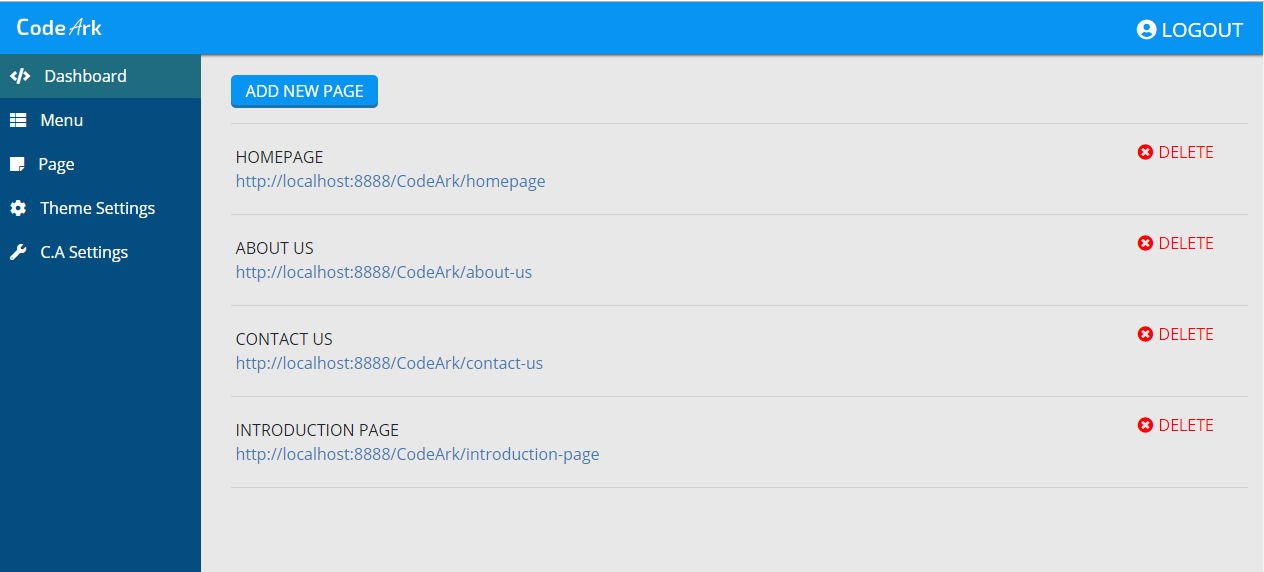
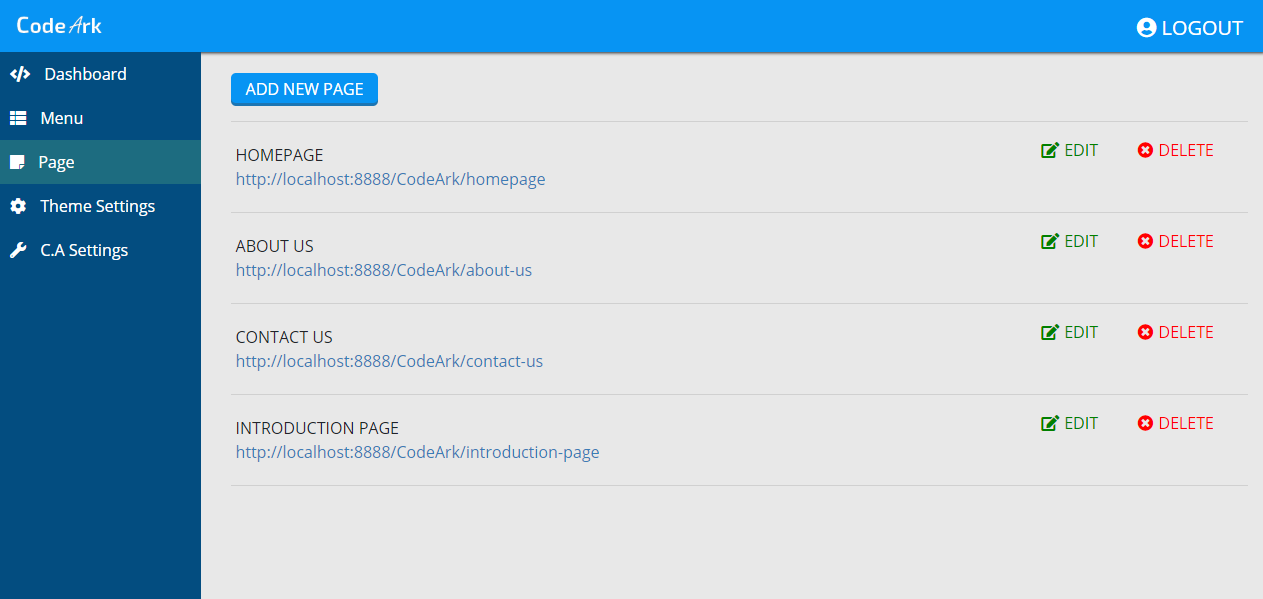
fix bugs on rewrite rules

diff --git a/assets/css/page-style.css b/assets/css/page-style.css
@@ -24,5 +24,26 @@
     cursor: pointer;
 }
 .deletepage_ {
+    text-align: right;
+    position: absolute;
+    right: 34px;
+    top: 0;
     color: red;
+}
+.deletepage_ i {
+    margin-right: 5px;
+}
+.edit_page {
+    text-align: right;
+    position: absolute;
+    right: 150px;
+    top: 0;
+    color: green;
+}
+.edit_page i {
+    margin-right: 5px;
+}
+.edit_page:hover {
+    color: #09b509;
+    cursor: pointer;
 }

diff --git a/assets/css/add-page-style.css b/assets/css/add-page-style.css
@@ -30,15 +30,7 @@ input.page-link_ {
     width: 100%;
     display: block;
 }
-.deletepage_ {
-    text-align: right;
-    position: absolute;
-    right: 34px;
-    top: 0;
-}
-.deletepage_ i {
-    margin-right: 5px;
-}
+
 .page_link_{
     text-transform: lowercase;
 }

diff --git a/edit-page.php b/edit-page.php
@@ -1,0 +1,83 @@
+<?php require ("dashboard-header.php"); ?>
+<script src="https://ajax.googleapis.com/ajax/libs/angularjs/1.6.9/angular.min.js"></script>
+<div class="col-md-12 col-lg-10 col-xl-10 dash-container">
+	<!-- your code here -->
+	<?php
+echo "btok".$_GET['edit'];
+	?>
+	<div ng-app="plunker" >
+	<div class="row dashboard-container ">
+		<div class="col-md-10 p-0">
+			<div class="leftMenu_">
+				<div class="add-page_">
+				<form method="POST" id="publishpage_id" action="data/addPage">
+				<div class="title-link">
+					<label>ADD TITLEs:</label>
+					<input type="text"  ng-model="page_title_" name="page_title_" value="" class="page_title_"><br>
+					<label>LINK:</label>
+					<div class="link_url"><?php echo home_url()."/"?><input type="text" name="page_link_" value="{{page_title_|replace: ' ':'-'}}" class="page_link_"></div>
+					<input type="submit" name="publish_page" class="publishpage_" >
+				</div>
+				<input type="hidden" name="htmlcontent" value="" class="html_data">
+				<input type="hidden" name="template_file_field" value="" class="template_file_field">
+				</form>
+				</div>
+				<div class="htmleditor">
+				<form method="post">
+				<textarea id="mytextarea"></textarea>
+				</form>
+				</div>
+			</div>
+		</div>
+		<div class="col-md-2 p5-custom">
+			<div class="rightMenu">
+				<div class="controlers">
+				<a href="add-page" class="secprimary_btn">ADD NEW PAGE</a>
+				<a href="#" class="secprimary_btn publish_page_btn">PUBLISH PAGE</a>
+				</div>
+				<div class="choose-tem">
+					<div class="temp-title_">Choose Template:</div>
+					<select name="template_file" class="template_file">
+						<option>Default Template</option>
+					<?php 
+					foreach (new DirectoryIterator('./templates') as $file) {
+					if ($file->isFile()) {
+					$files__ = str_replace(".php", "", $file->getFilename());
+					echo "<option value='".$files__."'>".$files__. "</option>";
+					}
+					}
+					?>
+					</select>
+				</div>
+			</div>
+		</div>
+	</div>
+	</div><!-- angular -->
+
+
+	<!-- end of your code -->
+</div>
+</div><!-- END DASHBOARD-HEADER ROW  -->
+
+
+<script>
+var app = angular.module('plunker', []);
+
+app.filter('replace', [function () {
+
+    return function (input, from, to) {
+      
+      if(input === undefined) {
+        return;
+      }
+  
+      var regex = new RegExp(from, 'g');
+      return input.replace(regex, to);
+       
+    };
+
+
+}]);
+
+</script>
+

diff --git a/inc/links.php b/inc/links.php
@@ -1,4 +1,6 @@
 <?php define('__ROOT__', dirname(dirname(__FILE__)));  ?>
+<?php define( 'ABSPATH', dirname(dirname(__FILE__)) . '/' ); ?>
+  <base href="http://localhost:8888/CodeArk/">
 <!-- JQUERT 3.3.1 -->
 <script src="assets/js/jquery-3.3.1.min.js"></script>
 <!-- AJAX -->
@@ -38,3 +40,4 @@
 <!-- <script src="http://ajax.googleapis.com/ajax/libs/jqueryui/1.8.16/jquery-ui.min.js"></script> -->
 <!-- FUNCTIONS -->
 <?php include(__ROOT__."/functions/cs-functions.php");?>
+<base href="/" />

diff --git a/page.php b/page.php
@@ -31,6 +31,9 @@ require ("dashboard-header.php");
 				<div class='pagelink_'>
 				<a target='_blank' href='".home_url()."/".$PageLink."'>".home_url()."/".$PageLink."</a>
 				</div>
+				<div  data-edit='".$PageID."' class='edit_page'>
+				<i class='fas fa-edit'></i>EDIT
+				</div>
 				<div  data-name='".$PageID."' class='deletepage_'>
 				<i class='fas fa-times-circle'></i>DELETE
 				</div>
